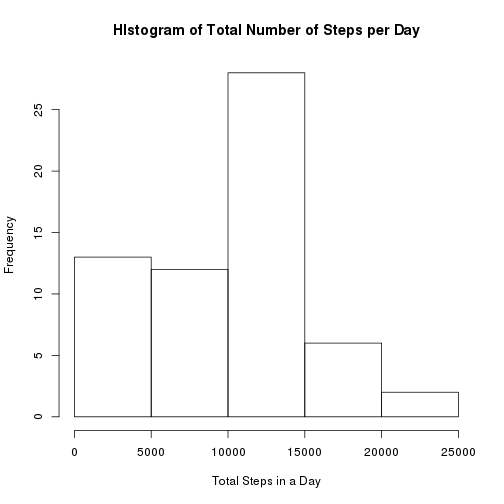
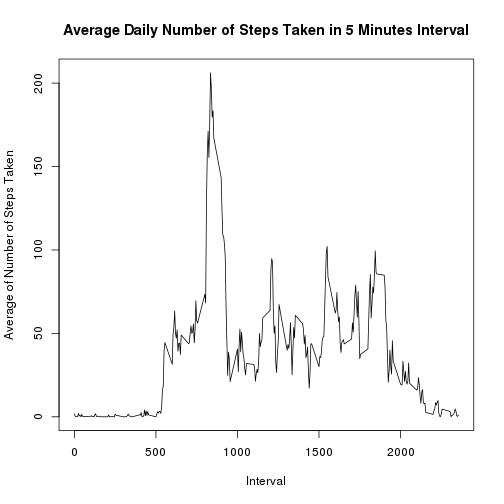
10/Feb/2016

diff --git a/PA1_template.html b/PA1_template.html
@@ -210,6 +210,12 @@ hr {
 download.file(&quot;https://d396qusza40orc.cloudfront.net/repdata/data/activity.zip&quot;,destfile=&quot;activity.zip&quot;)
 # unzip and read the downloaded file into R
 raw.data&lt;-read.csv(unz(&quot;activity.zip&quot;,&quot;activity.csv&quot;),sep=&quot;,&quot;,na.strings=&quot;NA&quot;,stringsAsFactors=FALSE)
+# strptime date from date column
+date&lt;-strptime(raw.data$date,format=&quot;%Y-%m-%d&quot;)
+# make the interval value more uniform in number format
+interval&lt;-formatC(raw.data$interval,width=4,flag=&quot;0&quot;)
+# construct date.time which contain date and time interval value in POSIXlt and POSIXct
+date.time&lt;-strptime(paste(raw.data$date,interval),format=&quot;%Y-%m-%d %H%M&quot;)
 </code></pre>
 
 <h2>What is mean total number of steps taken per day?</h2>
@@ -220,12 +226,28 @@ raw.data&lt;-read.csv(unz(&quot;activity.zip&quot;,&quot;activity.csv&quot;),sep
 <li>Calculate and report the mean and median of the total number of steps taken per day<br/></li>
 </ol>
 
-<pre><code class="r"># strptime date from date column
-date&lt;-strptime(raw.data$date,format=&quot;%Y-%m-%d&quot;)
-# make the interval value more uniform in number format
-interval&lt;-formatC(raw.data$interval,width=4,flag=&quot;0&quot;)
-# construct date.time which contain date and time interval value in POSIXlt and POSIXct
-date.time&lt;-strptime(paste(raw.data$date,interval),format=&quot;%Y-%m-%d %H%M&quot;)
+<pre><code class="r"># calculate for total number of steps per day
+tot.steps.date&lt;-as.numeric(tapply(raw.data$steps,raw.data$date,sum,na.rm=TRUE))
+# plot histogram of total number of steps oer day
+hist(tot.steps.date,main=&quot;Histogram of Total Number of Steps per Day&quot;,xlab=&quot;Total Steps in a Day&quot;,ylab=&quot;Frequency&quot;)
+</code></pre>
+
[1 lines of base64/hex data omitted]
+
+<pre><code class="r"># calculate mean of total numbers of steps taken per days
+mean.steps.date&lt;-mean(tot.steps.date,na.rm=TRUE)
+mean.steps.date
+</code></pre>
+
+<pre><code>## [1] 9354.23
+</code></pre>
+
+<pre><code class="r"># calculate median of total numbers of steps taken per days
+median.steps.date&lt;-median(tot.steps.date,na.rm=TRUE)
+median.steps.date
+</code></pre>
+
+<pre><code>## [1] 10395
 </code></pre>
 
 <h2>What is the average daily activity pattern?</h2>
@@ -235,19 +257,7 @@ date.time&lt;-strptime(paste(raw.data$date,interval),format=&quot;%Y-%m-%d %H%M&
 <li>Which 5-minute interval, on average across all the days in the dataset, contains the maximum number of steps?<br/></li>
 </ol>
 
-<pre><code class="r"># calculate for total number of steps per day
-tot.steps.date&lt;-as.numeric(tapply(raw.data$steps,raw.data$date,sum,na.rm=TRUE))
-# plot histogram of total number of steps oer day
-hist(tot.steps.date,main=&quot;HIstogram of Total Number of Steps per Day&quot;,xlab=&quot;Total Steps in a Day&quot;,ylab=&quot;Frequency&quot;)
-</code></pre>
-
[1 lines of base64/hex data omitted]
-
-<pre><code class="r"># calculate mean of total numbers of steps taken per days
-mean.steps.date&lt;-mean(tot.steps.date,na.rm=TRUE)
-# calculate median of total numbers of steps taken per days
-median.steps.date&lt;-median(tot.steps.date,na.rm=TRUE)
-# averaging number of the 5 minute interval (x axis), and steps taken, averaged across all day(y axis)
+<pre><code class="r"># averaging number of the 5 minute interval (x axis), and steps taken, averaged across all day(y axis)
 interval.steps.date&lt;-as.numeric(lapply(split(raw.data$steps,raw.data$interval),mean,na.rm=TRUE))
 # construct a plot of interval and average steps taken across all days
 plot(unique((interval)),interval.steps.date,type=&quot;l&quot;,main=&quot;Average Daily Number of Steps Taken in 5 Minutes Interval&quot;,xlab=&quot;Interval&quot;,ylab=&quot;Average of Number of Steps Taken&quot;)
@@ -610,12 +620,12 @@ weekend.interval.steps.date&lt;-as.numeric(lapply(split(weekend.data$steps,weeke
 # construct a layout for the plot1
 par(mfrow=c(2,1))
 # construct histogram of average number of steps taken each day across all weekdays of filled weekdays dataset
-hist(weekdays.interval.steps.date,main=&quot;Average Daily Number of Steps Taken in 5 Minutes Interval-Weekdays&quot;,xlab=&quot;Interval&quot;,ylab=&quot;Steps&quot;)
+plot(weekdays.interval.steps.date,type=&quot;l&quot;,main=&quot;Average Daily Number of Steps Taken in 5 Minutes Interval-Weekdays&quot;,xlab=&quot;Interval&quot;,ylab=&quot;Steps&quot;)
 # construct histogram of average number of steps taken each day across all weekend of filled weekend dataset
-hist(weekend.interval.steps.date,main=&quot;Average Daily Number of Steps Taken in 5 Minutes Interval--Weekend&quot;,xlab=&quot;Interval&quot;,ylab=&quot;Steps&quot;)
+plot(weekend.interval.steps.date,type=&quot;l&quot;,main=&quot;Average Daily Number of Steps Taken in 5 Minutes Interval--Weekend&quot;,xlab=&quot;Interval&quot;,ylab=&quot;Steps&quot;)
 </code></pre>
 
[2 lines of base64/hex data omitted]
 
 </body>
 

diff --git a/PA1_template.md b/PA1_template.md
@@ -8,14 +8,6 @@
 download.file("https://d396qusza40orc.cloudfront.net/repdata/data/activity.zip",destfile="activity.zip")
 # unzip and read the downloaded file into R
 raw.data<-read.csv(unz("activity.zip","activity.csv"),sep=",",na.strings="NA",stringsAsFactors=FALSE)
-```
-
-## What is mean total number of steps taken per day?  
-1. Calculate the total number of steps taken per day    
-2. If you do not understand the difference between a histogram and a barplot, research the difference between them. Make a histogram of the total number of steps taken each day     
-3. Calculate and report the mean and median of the total number of steps taken per day  
-
-```r
 # strptime date from date column
 date<-strptime(raw.data$date,format="%Y-%m-%d")
 # make the interval value more uniform in number format
@@ -24,31 +16,52 @@ interval<-formatC(raw.data$interval,width=4,flag="0")
 date.time<-strptime(paste(raw.data$date,interval),format="%Y-%m-%d %H%M")
 ```
 
-## What is the average daily activity pattern?  
-1. Make a time series plot (i.e. type = "l") of the 5-minute interval (x-axis) and the average number of steps taken, averaged across all days (y-axis)  
-2. Which 5-minute interval, on average across all the days in the dataset, contains the maximum number of steps?  
+## What is mean total number of steps taken per day?  
+1. Calculate the total number of steps taken per day    
+2. If you do not understand the difference between a histogram and a barplot, research the difference between them. Make a histogram of the total number of steps taken each day     
+3. Calculate and report the mean and median of the total number of steps taken per day  
 
 ```r
 # calculate for total number of steps per day
 tot.steps.date<-as.numeric(tapply(raw.data$steps,raw.data$date,sum,na.rm=TRUE))
 # plot histogram of total number of steps oer day
-hist(tot.steps.date,main="HIstogram of Total Number of Steps per Day",xlab="Total Steps in a Day",ylab="Frequency")
+hist(tot.steps.date,main="Histogram of Total Number of Steps per Day",xlab="Total Steps in a Day",ylab="Frequency")
 ```
 
-![plot of chunk unnamed-chunk-3](figure/unnamed-chunk-3-1.png)
+![plot of chunk unnamed-chunk-2](figure/unnamed-chunk-2-1.png)
 
 ```r
 # calculate mean of total numbers of steps taken per days
 mean.steps.date<-mean(tot.steps.date,na.rm=TRUE)
+mean.steps.date
+```
+
+```
+## [1] 9354.23
+```
+
+```r
 # calculate median of total numbers of steps taken per days
 median.steps.date<-median(tot.steps.date,na.rm=TRUE)
+median.steps.date
+```
+
+```
+## [1] 10395
+```
+
+## What is the average daily activity pattern?  
+1. Make a time series plot (i.e. type = "l") of the 5-minute interval (x-axis) and the average number of steps taken, averaged across all days (y-axis)  
+2. Which 5-minute interval, on average across all the days in the dataset, contains the maximum number of steps?  
+
+```r
 # averaging number of the 5 minute interval (x axis), and steps taken, averaged across all day(y axis)
 interval.steps.date<-as.numeric(lapply(split(raw.data$steps,raw.data$interval),mean,na.rm=TRUE))
 # construct a plot of interval and average steps taken across all days
 plot(unique((interval)),interval.steps.date,type="l",main="Average Daily Number of Steps Taken in 5 Minutes Interval",xlab="Interval",ylab="Average of Number of Steps Taken")
 ```
 
-![plot of chunk unnamed-chunk-3](figure/unnamed-chunk-3-2.png)
+![plot of chunk unnamed-chunk-3](figure/unnamed-chunk-3-1.png)
 
 ```r
 # find 5 minute interval across all the days in the data sets  that contain the max number of steps
@@ -423,9 +436,9 @@ weekend.interval.steps.date<-as.numeric(lapply(split(weekend.data$steps,weekend.
 # construct a layout for the plot1
 par(mfrow=c(2,1))
 # construct histogram of average number of steps taken each day across all weekdays of filled weekdays dataset
-hist(weekdays.interval.steps.date,main="Average Daily Number of Steps Taken in 5 Minutes Interval-Weekdays",xlab="Interval",ylab="Steps")
+plot(weekdays.interval.steps.date,type="l",main="Average Daily Number of Steps Taken in 5 Minutes Interval-Weekdays",xlab="Interval",ylab="Steps")
 # construct histogram of average number of steps taken each day across all weekend of filled weekend dataset
-hist(weekend.interval.steps.date,main="Average Daily Number of Steps Taken in 5 Minutes Interval--Weekend",xlab="Interval",ylab="Steps")
+plot(weekend.interval.steps.date,type="l",main="Average Daily Number of Steps Taken in 5 Minutes Interval--Weekend",xlab="Interval",ylab="Steps")
 ```
 
 ![plot of chunk unnamed-chunk-5](figure/unnamed-chunk-5-1.png)
